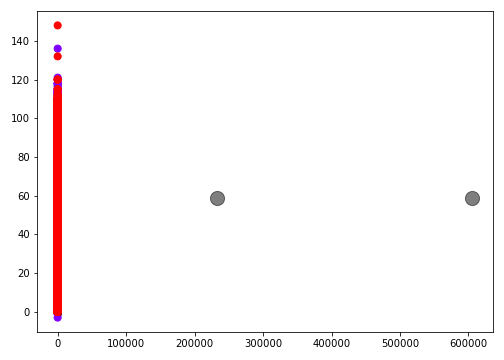
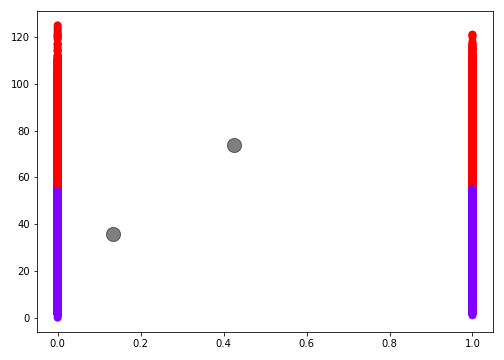
persistencia problema de plot

diff --git a/test.py b/test.py
@@ -5,7 +5,7 @@ Created on Wed Dec  2 19:54:59 2020
 @author: Benjamim
 """
 
-from sklearn import datasets
+
 import pandas as pd
 import numpy as np
 from sklearn.metrics import confusion_matrix
@@ -40,11 +40,11 @@ teste = dados.apply(preprocessing.LabelEncoder().fit_transform)
 # visualização de quantos registros existem por classe
 unicos,quantidade = np.unique(teste,return_counts=True)
 teste3 = teste.to_numpy()
-
+teste4 = teste[['EVOLUCAO','NU_IDADE_N']].values
 #instanciando KMeans/ criando agrupamentos
 cluster = KMeans(n_clusters=2)
-cluster.fit(teste)
-pred = cluster.predict(teste)
+cluster.fit(teste4)
+pred = cluster.predict(teste4)
 
 #visualização dos centroides(agrupamentos ou clusters anteiormente definidos)
 centroides = cluster.cluster_centers_
@@ -56,7 +56,7 @@ previsoes = cluster.labels_
 unicos2, quantidade2 = np.unique(previsoes,return_counts = True)
 
 #geração da matriz de contingencia para comparar os grupos com a base de dados
-resultados = confusion_matrix(teste['EVOLUCAO'],previsoes)
+resultados = confusion_matrix(teste4[:,0],previsoes)
  
 '''-----------------------''' 
 from sklearn.metrics import pairwise_distances_argmin
@@ -84,16 +84,18 @@ def find_clusters(X, n_clusters, rseed=2):
         labels_his.append(labels)
     return centers, labels, centers_his, labels_his
 
-centers, labels, centers_his, labels_his = find_clusters(teste3, 2)
+'''teste3 tem que receber apenas 2 colunas'''
+centers, labels, centers_his, labels_his = find_clusters(teste4, 2)
 '''-------------------------'''
 
-dfm = dados[['EVOLUCAO', 'NU_IDADE_N']].values
+
 for i in range(len(centers_his)):
+    #talves usar os centroides delcarados inicialmente
     centers = centers_his[i]
     labels = labels_his[i]
     fig = plt.figure(figsize=(7, 5))
     fig.set_tight_layout(True)
-    plt.scatter(dfm[:, 0], dfm[:, 1], c=labels,
+    plt.scatter(teste4[:, 0], teste4[:, 1], c=labels,
                 s=50, cmap='rainbow');
     plt.scatter(centers[:, 0], centers[:, 1], c='black', s=200, alpha=0.5);
     plt.savefig('kmeans_demo/{}.png'.format(i))
